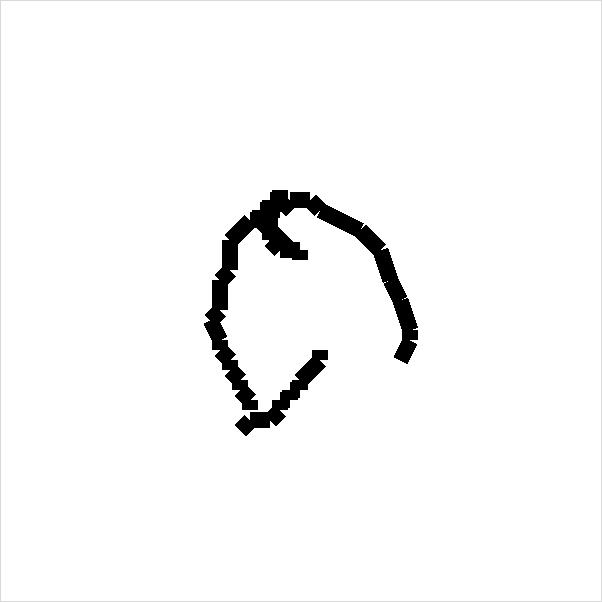
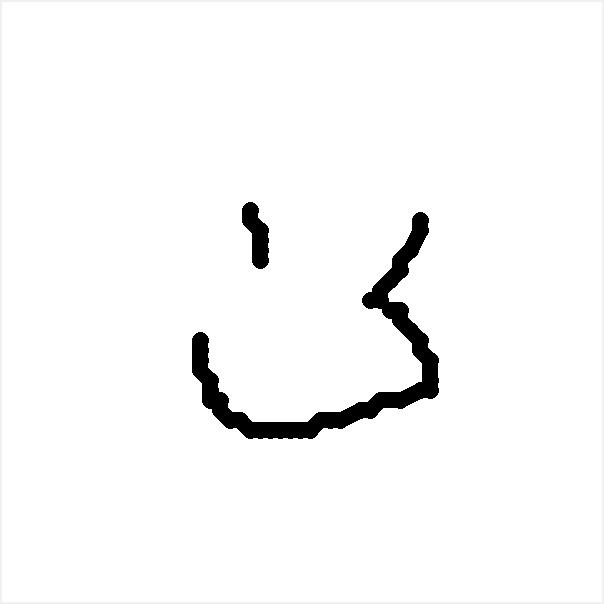
Improved drawing lines

Changed region(s): [[0.299, 0.299, 0.7475, 0.7475]]

diff --git a/client.py b/client.py
@@ -8,6 +8,7 @@ import cv2
 import ctypes
 import threading
 import time
+from os import path
 
 
 class Root(Tk):
@@ -32,6 +33,7 @@ class Root(Tk):
         self.canvas = Canvas(self, width=600, height=600, bg="white", cursor="cross")
         self.label = Label(self, text="Draw..", font=("Helvetica", 48))
         self.clearButton = Button(self, text="Clear", command=self.clear_canvas)
+        self.update_timer = None
 
         # Connection window
         self.IPEntry = Entry(self, width=25)
@@ -41,19 +43,19 @@ class Root(Tk):
         self.connectButton = Button(self, text="Connect...", command=self.connect)
 
         # Calibration window
+        self.calibrate_timer = None
         self.calibrateButton = Button(self, text="Calibrate", command=self.set_mode_calibrate)
         self.calibrateDoneButton = Button(self, text="Done", command=self.set_mode_draw)
         self.avgPitchLabel = Label(self, text="Average Pitch Offset:")
         self.avgYawLabel = Label(self, text="Average Yaw Offset:")
         self.avgPitchLabelValue = Label(self)
         self.avgYawLabelValue = Label(self)
-        self.pitchOffset = 0
-        self.yawOffset = 0
 
         self.previous_pitch = None
         self.previous_yaw = None
-        self.timeSinceLastDraw = time.perf_counter()
         self.yawCali = None
+        self.pitchCali = None
+        self.timeSinceLastDraw = time.perf_counter()
 
         self.show_connect()
 
@@ -113,6 +115,9 @@ class Root(Tk):
         if time.perf_counter() - self.timeSinceLastDraw >= 0.5:
             self.previous_yaw, self.previous_pitch = None, None
 
+        if self.yawCali is None or self.pitchCali is None:
+            self.yawCali = currentYaw
+            self.pitchCali = currentPitch
 
         toPrintY = None
         toPrintX = None
@@ -150,7 +155,8 @@ class Root(Tk):
                     toPrintX = 10*(currentYaw - self.yawCali) - 3300
 
         # print(self.yawCali, currentYaw, toPrintX)
-        r = 16
+        w = 16
+        r = w/2
 
         if toPrintX is not None and toPrintY is not None:
             # For the first time through
@@ -159,7 +165,8 @@ class Root(Tk):
             if self.previous_yaw is None:
                 self.previous_yaw = toPrintX
 
-            self.canvas.create_line(self.previous_yaw, self.previous_pitch, toPrintX, toPrintY, width=r)
+            self.canvas.create_line(self.previous_yaw, self.previous_pitch, toPrintX, toPrintY, width=w)
+            self.canvas.create_oval(toPrintX-r, toPrintY-r, toPrintX + r, toPrintY + r, fill='black')
 
         self.previous_pitch = toPrintY
         self.previous_yaw = toPrintX
@@ -186,12 +193,19 @@ class Root(Tk):
         self.update_timer = self.after(1, self.update)
 
     def connect(self):
-        #IP = self.IPEntry.get()
-        #port = int(self.portEntry.get())
 
-        # FOR ME
-        IP = '192.168.1.174'
-        port = 9606
+
+        if path.isfile(r'static/ip.txt'):
+            IP, port = self.get_ip()
+            self.IPEntry.insert(0, IP)
+            self.portEntry.insert(0, str(port))
+        else:
+            IP = self.IPEntry.get()
+            port = int(self.portEntry.get())
+            f = open(r'static/ip.txt', "w")
+            f.write(IP + "\n")
+            f.write(str(port))
+            f.close()
 
         try:
             self.socket = socket.socket(socket.AF_INET, socket.SOCK_STREAM)
@@ -215,6 +229,13 @@ class Root(Tk):
             theData = pickle.loads(theData)
             if theData["pitch"] < 360 and theData["yaw"] < 360:
                 self.data_queue.append(theData)
+
+    def get_ip(self):
+        f = open(r'static/ip.txt', "r")
+        IP = f.readline()
+        port = int(f.readline())
+        f.close()
+        return IP, port
 
     def all_children(self):
         list = self.winfo_children()

diff --git a/app.py b/app.py
@@ -9,7 +9,7 @@ socketio = SocketIO(app)
 
 @app.route('/')
 def index():
-    return render_template('./index.html')
+    return render_template(r'templates/index.html')
 
 @socketio.on('my event')
 def handle_my_custom_event(myjson):
